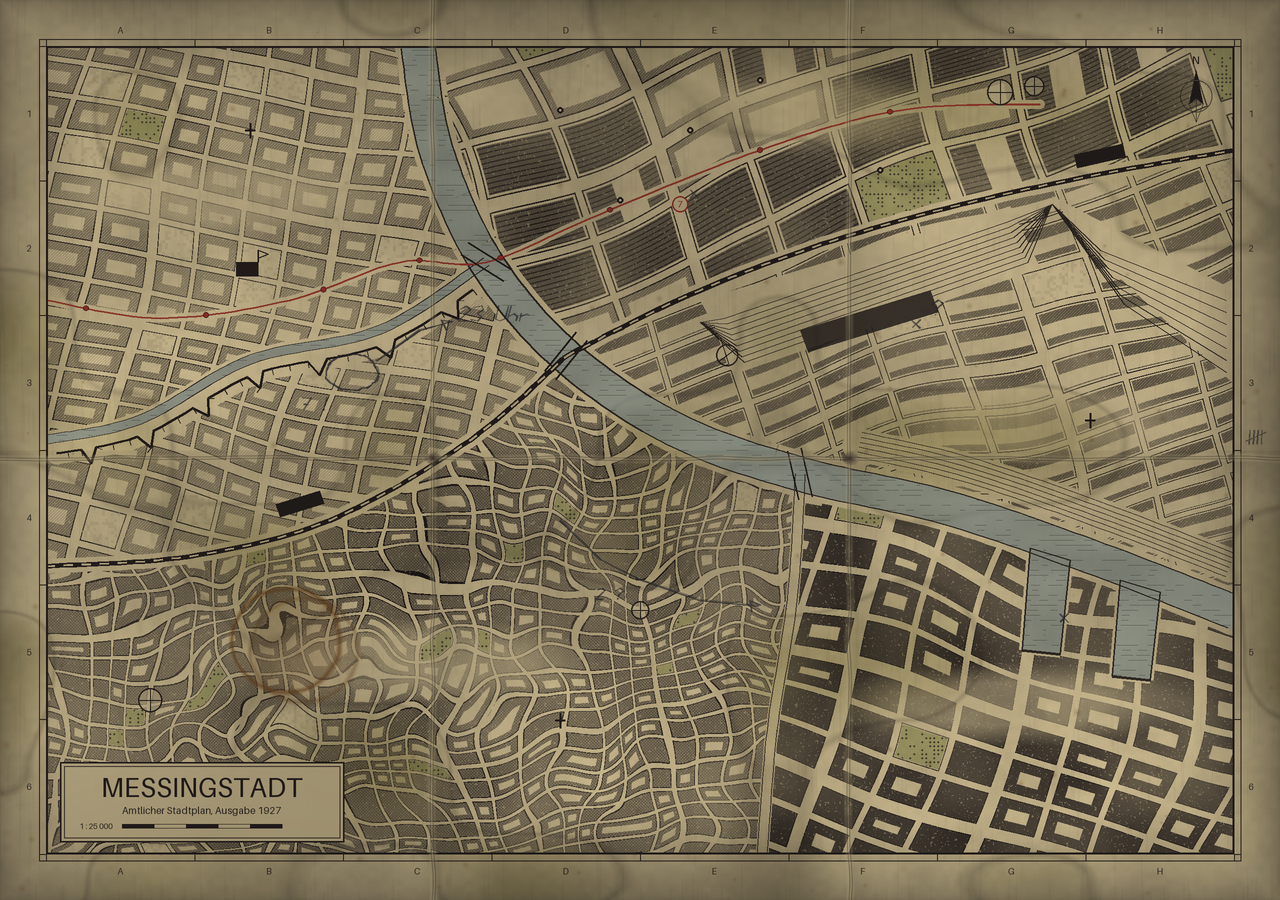
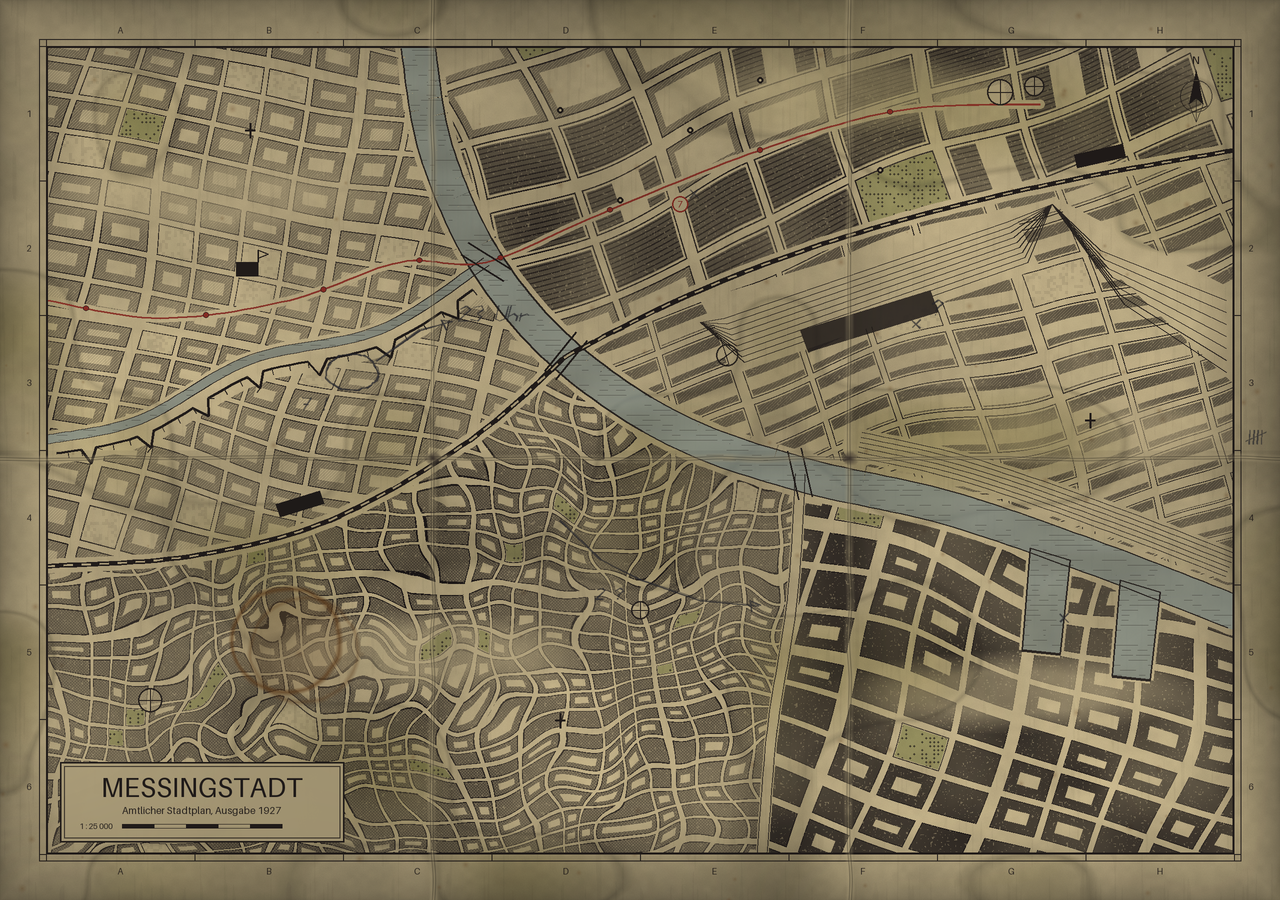
Stadtplan: Umrisse in plan.json reichen bis zum Rahmen, Name und Stempel liegen getrennt
Im vereinfachten Umriss fehlten die Eckpunkte am Kartenrahmen, die Flächen wurden dadurch
schräg abgeschnitten. Die Masken waren richtig. Der Generator prüft jetzt Umriss gegen Maske
und ob Name und Stempel in voller Größe getrennt im Viertel liegen.

diff --git a/tools/art/stadtplan.py b/tools/art/stadtplan.py
@@ -38,7 +38,9 @@ RAIL_WEST = [(46, 566), (190, 556), (330, 520), (470, 440), (566, 356)]
 RAIL_EAST = [(566, 356), (700, 290), (860, 232), (1040, 186), (1234, 150)]
 MAIN = [(800, 474), (792, 600), (772, 730), (762, 854)]
 TRAM_LINE = [(46, 300), (160, 318), (290, 300), (400, 262), (486, 262), (600, 214), (760, 150), (900, 110), (1040, 104)]
-LABELS = {1: ((800, 112), (640, 176)), 2: ((214, 196), (300, 440)), 3: ((1040, 424), (1150, 510)), 4: ((1010, 704), (1130, 790)), 5: ((420, 660), (610, 790))}
+# Je Viertel: Mittelpunkt für den Namen und für den Stempel. Beide liegen so weit auseinander, dass ein Stempel von
+# 240 x 64 Bildpunkten, leicht gedreht, den Namen nicht berührt und ganz im Viertel bleibt (siehe check_anchors).
+LABELS = {1: ((860, 92), (636, 204)), 2: ((212, 196), (188, 468)), 3: ((1108, 436), (852, 388)), 4: ((1012, 692), (1012, 796)), 5: ((420, 652), (564, 796))}
 # Je Viertel: Winkel des Straßenrasters, Blockmaß längs und quer, Straßenbreite, jede wievielte Straße breit ist, Art
 STYLE = {
     1: (-0.36, 92, 60, 6.5, 3, "works"),
@@ -393,9 +395,10 @@ def write_plan(preview=None):
         masks[dnum] = alpha
         Image.merge("LA", (Image.new("L", (W, H), 255), alpha)).save(OUT / f"viertel_{dnum}.png", optimize=True)
         box = alpha.getbbox()
-        outline = [poly[0]] + [p for i, p in enumerate(poly[1:-1], 1) if i % 3 == 0 or p in ((566, 356), (800, 474))] + [poly[-1]]
+        outline = simplify(poly)
         info["districts"].append({"id": dnum, "mask": f"viertel_{dnum}.png", "label": list(LABELS[dnum][0]), "stamp": list(LABELS[dnum][1]),
                                   "bounds": list(box), "polygon": [[round(x), round(y)] for x, y in outline]})
+    check_anchors(info, masks)
     (OUT / "plan.json").write_text(json.dumps(info, ensure_ascii=False, indent=1), encoding="utf-8")
     print("Stadtplan geschrieben:", OUT, plan.size)
 
@@ -416,9 +419,45 @@ def write_plan(preview=None):
         for dnum, (label, stamp) in LABELS.items():
             name = {1: "KESSELVIERTEL", 2: "NORDWALL", 3: "GLEISVIERTEL", 4: "KONTORVIERTEL", 5: "ALTSTADT"}[dnum]
             pd.text(label, name, font=ImageFont.load_default(size=22), fill=(0x21, 0x1C, 0x1A, 255), anchor="mm", stroke_width=2, stroke_fill=(0xAD, 0x9E, 0x7A, 255))
-            pd.ellipse((stamp[0] - 20, stamp[1] - 20, stamp[0] + 20, stamp[1] + 20), outline=(24, 18, 16, 255), width=2)
+            ca, sa = math.cos(-0.14), math.sin(-0.14)
+            box = [(stamp[0] + ca * i * 120 - sa * j * 32, stamp[1] + sa * i * 120 + ca * j * 32) for i, j in ((-1, -1), (1, -1), (1, 1), (-1, 1))]
+            pd.line(box + box[:1], fill=(244, 236, 214, 255), width=3)
+            pd.text(stamp, "HAMMER HÄLT", font=ImageFont.load_default(size=24), fill=(244, 236, 214, 255), anchor="mm")
         shown.convert("RGB").save(preview)
         print("Vorschau:", preview)
+
+
+def simplify(poly):
+    """Umriss mit weniger Punkten: Von den Kurven bleibt jeder dritte Punkt, Ecken am Rahmen und Knoten bleiben alle."""
+    x0, y0, x1, y1 = FRAME
+    fixed = set(RIVER + RAIL_WEST + RAIL_EAST + MAIN)
+    out = []
+    for i, (x, y) in enumerate(poly):
+        on_frame = x in (x0, x1) or y in (y0, y1)
+        if on_frame or (x, y) in fixed or i % 3 == 0:
+            out.append((x, y))
+    return out
+
+
+def check_anchors(info, masks):
+    """Prüft plan.json gegen die Masken: Umriss deckt die Maske, Name und Stempel liegen im Viertel und berühren sich nicht."""
+    for entry in info["districts"]:
+        alpha = np.asarray(masks[entry["id"]]) > 127
+        shape = Image.new("L", (W, H), 0)
+        ImageDraw.Draw(shape).polygon([tuple(q) for q in entry["polygon"]], fill=255)
+        differ = int((alpha != (np.asarray(shape) > 127)).sum())
+        assert differ < alpha.sum() * 0.012, (entry["id"], "Umriss weicht von der Maske ab", differ)
+        lx, ly = entry["label"]
+        sx, sy = entry["stamp"]
+        name = (lx - 110, ly - 22, lx + 110, ly + 22)
+        ca, sa = math.cos(-0.14), math.sin(-0.14)
+        corners = [(sx + ca * i * 120 - sa * j * 32, sy + sa * i * 120 + ca * j * 32) for i, j in ((-1, -1), (1, -1), (1, 1), (-1, 1))]
+        stamp = (min(c[0] for c in corners), min(c[1] for c in corners), max(c[0] for c in corners), max(c[1] for c in corners))
+        for bx0, by0, bx1, by1 in (name, stamp):
+            assert alpha[int(by0):int(by1), int(bx0):int(bx1)].all(), (entry["id"], "Name oder Stempel ragt aus dem Viertel")
+        apart = stamp[0] > name[2] or stamp[2] < name[0] or stamp[1] > name[3] or stamp[3] < name[1]
+        assert apart, (entry["id"], "Stempel berührt den Namen")
+    print("Umrisse und Anker geprüft")
 
 
 def offset(points, distance):
